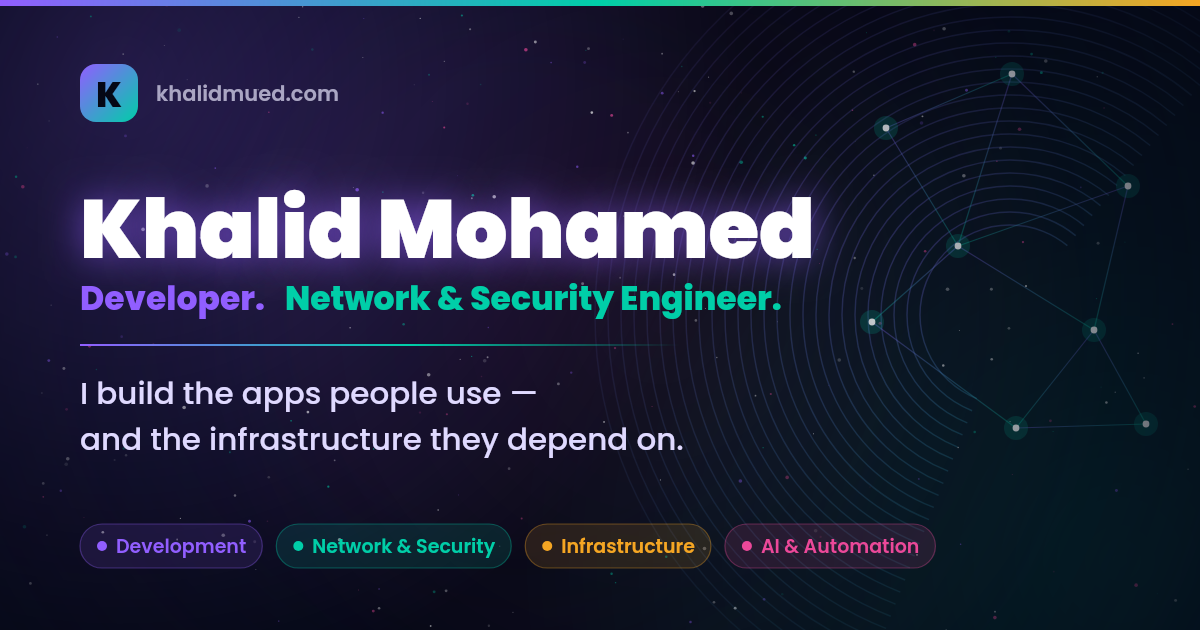
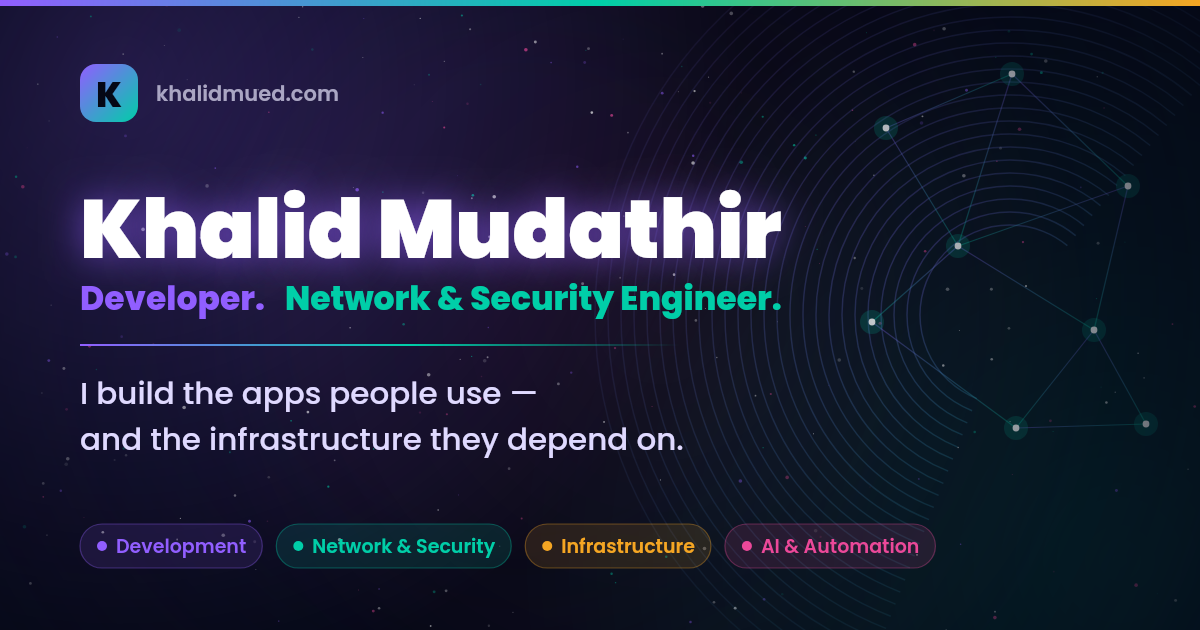
chore: change the last name from Mohamed to Mudathir (#15)
13 occurrences across src/constants/index.js (heroContent.name, which the
app renders from), index.html's title/description/author/OG/Twitter tags,
README.md, CLAUDE.md, and the name drawn on the OG card.

public/og-card.png regenerated to match — the case the committed
generator exists for. Verified the new name still clears the artwork
before trusting it: at Poppins 900/82px "Khalid Mudathir" measures 702px
against "Khalid Mohamed"'s 735px, so its right edge sits at x=782 and the
nearest topology node starts at x=872.

Left alone: the khalidmued.com domain and the khalidmueddev@gmail.com
Resend address, neither of which contains the last name, and the existing
LEDGER entries, which record what was true when written.

Lint clean, build green, the new name is in every built tag and in the JS
bundle, and dist/og-card.png hashes identical to public/og-card.png.

Claude-Session: https://claude.ai/code/session_0199GbRfoQaWjD8JViQjFH6E

Changed region(s): [[0.37, 0.3016, 0.7092, 0.4222]]

diff --git a/index.html b/index.html
@@ -20,14 +20,14 @@
     </script>
     <link rel="icon" type="image/svg+xml" href="/logo.svg" />
     <meta name="viewport" content="width=device-width, initial-scale=1.0" />
-    <meta name="description" content="Khalid Mohamed — Developer and Network & Security Engineer. I build the apps people use, and understand the infrastructure they run on." />
-    <meta name="author" content="Khalid Mohamed" />
+    <meta name="description" content="Khalid Mudathir — Developer and Network & Security Engineer. I build the apps people use, and understand the infrastructure they run on." />
+    <meta name="author" content="Khalid Mudathir" />
     <meta name="theme-color" content="#050816" />
     <link rel="canonical" href="https://khalidmued.com/" />
     <!-- Open Graph -->
     <meta property="og:type" content="website" />
     <meta property="og:url" content="https://khalidmued.com/" />
-    <meta property="og:title" content="Khalid Mohamed | Developer & Network Security Engineer" />
+    <meta property="og:title" content="Khalid Mudathir | Developer & Network Security Engineer" />
     <meta property="og:description" content="Developer and Network & Security Engineer — building apps, securing networks, and running the infrastructure between them." />
     <!-- A raster card, not logo.svg: every link-preview crawler (LinkedIn, X,
          Facebook, Slack, WhatsApp) ignores SVG and renders no image at all.
@@ -37,16 +37,16 @@
     <meta property="og:image:type" content="image/png" />
     <meta property="og:image:width" content="1200" />
     <meta property="og:image:height" content="630" />
-    <meta property="og:image:alt" content="Khalid Mohamed — Developer and Network &amp; Security Engineer. I build the apps people use, and the infrastructure they depend on." />
-    <meta property="og:site_name" content="Khalid Mohamed" />
+    <meta property="og:image:alt" content="Khalid Mudathir — Developer and Network &amp; Security Engineer. I build the apps people use, and the infrastructure they depend on." />
+    <meta property="og:site_name" content="Khalid Mudathir" />
     <meta property="og:locale" content="en_US" />
     <!-- Twitter -->
     <meta name="twitter:card" content="summary_large_image" />
-    <meta name="twitter:title" content="Khalid Mohamed | Developer & Network Security Engineer" />
+    <meta name="twitter:title" content="Khalid Mudathir | Developer & Network Security Engineer" />
     <meta name="twitter:description" content="Developer and Network & Security Engineer — building apps, securing networks, and running the infrastructure between them." />
     <meta name="twitter:image" content="https://khalidmued.com/og-card.png" />
-    <meta name="twitter:image:alt" content="Khalid Mohamed — Developer and Network &amp; Security Engineer." />
-    <title> Khalid Mohamed | Developer & Network Security Engineer </title>
+    <meta name="twitter:image:alt" content="Khalid Mudathir — Developer and Network &amp; Security Engineer." />
+    <title> Khalid Mudathir | Developer & Network Security Engineer </title>
   </head>
   <body>
     <div id="root"></div>

diff --git a/src/constants/index.js b/src/constants/index.js
@@ -67,7 +67,7 @@ export const navLinks = [
 // Hero
 // ---------------------------------------------------------------------------
 export const heroContent = {
-  name: "Khalid Mohamed",
+  name: "Khalid Mudathir",
   roles: ["Developer.", "Network & Security Engineer."],
   tagline: "I build the apps people use — and the infrastructure they depend on.",
   rotating: [

diff --git a/LEDGER.md b/LEDGER.md
@@ -863,3 +863,31 @@ Verified against `wrangler dev`: `/robots.txt` returns `200 text/plain`
 with the file's contents, a deep route still falls back to index.html,
 `/api/contact` still reaches the Worker (405 on GET), and the served CSP
 header no longer mentions emailjs.
+
+**Renamed "Khalid Mohamed" -> "Khalid Mudathir" everywhere.** 13
+occurrences across five files: `src/constants/index.js` (`heroContent.name`,
+the single source the app renders from), `index.html` (title, description,
+author, `og:title`, `og:site_name`, `og:image:alt`, `twitter:title`,
+`twitter:image:alt`), `README.md`, `CLAUDE.md`, and the name drawn on the
+OG card in `scripts/generate-og-card.mjs`.
+
+`public/og-card.png` regenerated so the card matches — this is exactly the
+case the generator was committed for. Checked the new name still clears the
+artwork before trusting it: at Poppins 900 / 82px, "Khalid Mudathir" is 702px
+wide against "Khalid Mohamed"'s 735px, so its right edge lands at x=782 and
+the nearest topology node starts at x=872. It got *narrower*, so no
+collision — but the measurement is the point, not the outcome.
+
+Left alone deliberately: the `khalidmued.com` domain and the
+`khalidmueddev@gmail.com` Resend address (neither contains the last name),
+and the historical entries above in this file, which record what was true
+when they were written.
+
+Note the hero only ever renders the first name —
+`heroContent.name.split(' ')[0]` in `Hero.jsx` — so the visible change on
+the site itself is the browser tab title and the link-preview metadata,
+not the headline.
+
+Verified: lint clean, build green, the built HTML carries the new name in
+every tag, the string is in the JS bundle, and `dist/og-card.png` hashes
+identical to `public/og-card.png`.

diff --git a/README.md b/README.md
@@ -1,6 +1,6 @@
-# Portfolio — Khalid Mohamed 🚀
+# Portfolio — Khalid Mudathir 🚀
 
-Personal portfolio for **Khalid Mohamed**, Developer and Network & Security
+Personal portfolio for **Khalid Mudathir**, Developer and Network & Security
 Engineer — built around the idea that both sides are one engineer, not two
 separate résumés. The site shows software projects and network/security
 work side by side (Skills, Works) with a shared color system tying them

diff --git a/CLAUDE.md b/CLAUDE.md
@@ -4,7 +4,7 @@ Guidance for Claude Code when working in this repository.
 
 ## Project
 
-Khalid Mohamed's personal portfolio — a single-page React app positioned around:
+Khalid Mudathir's personal portfolio — a single-page React app positioned around:
 
 > **I build the apps people use — and understand everything it runs on.**
 
